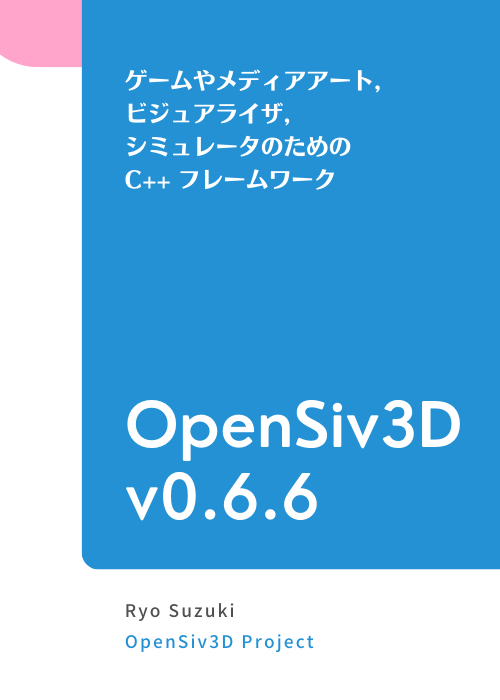
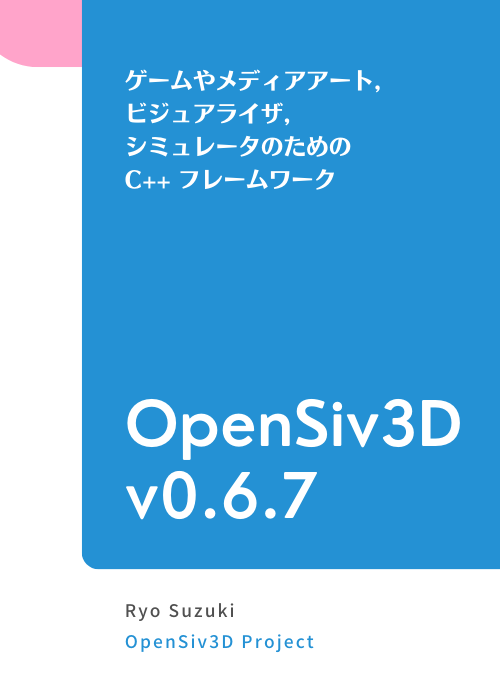
update

diff --git a/books/siv3d-documentation-en/course-quick-turorial.md b/books/siv3d-documentation-en/course-quick-turorial.md
@@ -773,7 +773,7 @@ void Main()
 ```
 
 ### Siv3D で使える絵文字の一覧
-Siv3D で使える絵文字は約 3,600 種類あります。絵文字を探すときは [emojipedia](https://emojipedia.org/) の Categories から調べるのが便利です。 OpenSiv3D v0.6.6 はオープンソースの絵文字フォント Noto Color Emoji (Unicode 14.0 版) を内蔵しているので、Siv3D アプリはどのプラットフォームでも同じ見た目の絵文字を表示できます。
+Siv3D で使える絵文字は約 3,600 種類あります。絵文字を探すときは [emojipedia](https://emojipedia.org/) の Categories から調べるのが便利です。 OpenSiv3D v0.6.7 はオープンソースの絵文字フォント Noto Color Emoji (Unicode 14.0 版) を内蔵しているので、Siv3D アプリはどのプラットフォームでも同じ見た目の絵文字を表示できます。
 
 
 ## 3.2 テクスチャを拡大縮小して描画する
@@ -955,7 +955,7 @@ void Main()
 ```
 
 ### 対応している画像フォーマット
-OpenSiv3D v0.6.6 では、9 種類の画像フォーマットの読み込みがサポートされています。
+OpenSiv3D v0.6.7 では、9 種類の画像フォーマットの読み込みがサポートされています。
 
 | フォーマット   | 拡張子             | 対応状況       |
 |----------|-----------------|:----------:|
@@ -1001,7 +1001,7 @@ void Main()
 ## 3.8 動画をテクスチャとして扱う
 シーンに動画を描きたいときは `VideoTexture` を作成し、`.draw()` または `.drawAt()` します。`VideoTexture` は `Texture` とほぼ同じインタフェースを持ち、動画ファイルを `Texture` のように扱えます。`VideoTexture` は毎フレーム `.advance()` を呼ぶことで再生位置を進めます。Siv3D はバックグラウンドのスレッドで動画の次のフレームの先読みを行っています。
 
-対応する動画フォーマットはプラットフォームによって異なりますが、MP4 ファイルは Windows, macOS, Linux でサポートされています。音声付き動画の音声を再生する方法は OpenSiv3D v0.6.6 では用意されていません。映像のみです。
+対応する動画フォーマットはプラットフォームによって異なりますが、MP4 ファイルは Windows, macOS, Linux でサポートされています。音声付き動画の音声を再生する方法は OpenSiv3D v0.6.7 では用意されていません。映像のみです。
 
 https://youtu.be/B4WPEdA4vMI
 ```cpp

diff --git a/books/siv3d-documentation/course-quick-turorial.md b/books/siv3d-documentation/course-quick-turorial.md
@@ -773,7 +773,7 @@ void Main()
 ```
 
 ### Siv3D で使える絵文字の一覧
-Siv3D で使える絵文字は約 3,600 種類あります。絵文字を探すときは [emojipedia](https://emojipedia.org/) の Categories から調べるのが便利です。 OpenSiv3D v0.6.6 はオープンソースの絵文字フォント Noto Color Emoji (Unicode 14.0 版) を内蔵しているので、Siv3D アプリはどのプラットフォームでも同じ見た目の絵文字を表示できます。
+Siv3D で使える絵文字は約 3,600 種類あります。絵文字を探すときは [emojipedia](https://emojipedia.org/) の Categories から調べるのが便利です。 OpenSiv3D v0.6.7 はオープンソースの絵文字フォント Noto Color Emoji (Unicode 14.0 版) を内蔵しているので、Siv3D アプリはどのプラットフォームでも同じ見た目の絵文字を表示できます。
 
 
 ## 3.2 テクスチャを拡大縮小して描画する
@@ -955,7 +955,7 @@ void Main()
 ```
 
 ### 対応している画像フォーマット
-OpenSiv3D v0.6.6 では、9 種類の画像フォーマットの読み込みがサポートされています。
+OpenSiv3D v0.6.7 では、9 種類の画像フォーマットの読み込みがサポートされています。
 
 | フォーマット   | 拡張子             | 対応状況       |
 |----------|-----------------|:----------:|
@@ -1001,7 +1001,7 @@ void Main()
 ## 3.8 動画をテクスチャとして扱う
 シーンに動画を描きたいときは `VideoTexture` を作成し、`.draw()` または `.drawAt()` します。`VideoTexture` は `Texture` とほぼ同じインタフェースを持ち、動画ファイルを `Texture` のように扱えます。`VideoTexture` は毎フレーム `.advance()` を呼ぶことで再生位置を進めます。Siv3D はバックグラウンドのスレッドで動画の次のフレームの先読みを行っています。
 
-対応する動画フォーマットはプラットフォームによって異なりますが、MP4 ファイルは Windows, macOS, Linux でサポートされています。音声付き動画の音声を再生する方法は OpenSiv3D v0.6.6 では用意されていません。映像のみです。
+対応する動画フォーマットはプラットフォームによって異なりますが、MP4 ファイルは Windows, macOS, Linux でサポートされています。音声付き動画の音声を再生する方法は OpenSiv3D v0.6.7 では用意されていません。映像のみです。
 
 https://youtu.be/B4WPEdA4vMI
 ```cpp

diff --git a/books/siv3d-documentation-en/tutorial-audio.md b/books/siv3d-documentation-en/tutorial-audio.md
@@ -32,7 +32,7 @@ void Main()
 ```
 
 ### 対応している音声フォーマット
-OpenSiv3D v0.6.6 では、次のような音声フォーマットの読み込みがサポートされています。一部の音声フォーマットは OS によって対応状況が異なります。
+OpenSiv3D v0.6.7 では、次のような音声フォーマットの読み込みがサポートされています。一部の音声フォーマットは OS によって対応状況が異なります。
 
 | フォーマット    | 拡張子                | Windows | macOS | Linux | Web |
 |-----------|--------------------|:-------:|:-----:|:-----:|:---:|
@@ -666,7 +666,7 @@ void Main()
 |`GlobalAudio::BusSetReverbFilter()`|  リバーブフィルタを設定します |
 |`GlobalAudio::BusSetPitchShiftFilter()`|  ピッチシフトフィルタを設定します |
 
-OpenSiv3D v0.6.6 Web 版では、ピッチシフトフィルタを利用できません。`GlobalAudio::SupportsPitchShift()` を使うと、現在の実行環境でピッチシフトフィルタを利用できるかを取得できます。
+OpenSiv3D v0.6.7 Web 版では、ピッチシフトフィルタを利用できません。`GlobalAudio::SupportsPitchShift()` を使うと、現在の実行環境でピッチシフトフィルタを利用できるかを取得できます。
 
 次のサンプルは、オーディオフィルタ機能のデモです。これまでの章では扱っていない、いくつかの高度な機能を含んでいます。「Open audio file」をクリックすると、パソコンに保存されているオーディオファイルをオープンできます。
 

diff --git a/books/siv3d-documentation/tutorial-audio.md b/books/siv3d-documentation/tutorial-audio.md
@@ -32,7 +32,7 @@ void Main()
 ```
 
 ### 対応している音声フォーマット
-OpenSiv3D v0.6.6 では、次のような音声フォーマットの読み込みがサポートされています。一部の音声フォーマットは OS によって対応状況が異なります。
+OpenSiv3D v0.6.7 では、次のような音声フォーマットの読み込みがサポートされています。一部の音声フォーマットは OS によって対応状況が異なります。
 
 | フォーマット    | 拡張子                | Windows | macOS | Linux | Web |
 |-----------|--------------------|:-------:|:-----:|:-----:|:---:|
@@ -666,7 +666,7 @@ void Main()
 |`GlobalAudio::BusSetReverbFilter()`|  リバーブフィルタを設定します |
 |`GlobalAudio::BusSetPitchShiftFilter()`|  ピッチシフトフィルタを設定します |
 
-OpenSiv3D v0.6.6 Web 版では、ピッチシフトフィルタを利用できません。`GlobalAudio::SupportsPitchShift()` を使うと、現在の実行環境でピッチシフトフィルタを利用できるかを取得できます。
+OpenSiv3D v0.6.7 Web 版では、ピッチシフトフィルタを利用できません。`GlobalAudio::SupportsPitchShift()` を使うと、現在の実行環境でピッチシフトフィルタを利用できるかを取得できます。
 
 次のサンプルは、オーディオフィルタ機能のデモです。これまでの章では扱っていない、いくつかの高度な機能を含んでいます。「Open audio file」をクリックすると、パソコンに保存されているオーディオファイルをオープンできます。
 

diff --git a/books/siv3d-documentation-en/tutorial-texture.md b/books/siv3d-documentation-en/tutorial-texture.md
@@ -71,7 +71,7 @@ void Main()
 ```
 
 ### Siv3D で使える絵文字の一覧
-Siv3D で使える絵文字は約 3,600 種類あります。絵文字を探すときは [emojipedia](https://emojipedia.org/) の Categories から調べるのが便利です。 OpenSiv3D v0.6.6 はオープンソースの絵文字フォント Noto Color Emoji (Unicode 14.0 版) を内蔵しているので、Siv3D アプリはどのプラットフォームでも同じ見た目の絵文字を表示できます。
+Siv3D で使える絵文字は約 3,600 種類あります。絵文字を探すときは [emojipedia](https://emojipedia.org/) の Categories から調べるのが便利です。 OpenSiv3D v0.6.7 はオープンソースの絵文字フォント Noto Color Emoji (Unicode 14.0 版) を内蔵しているので、Siv3D アプリはどのプラットフォームでも同じ見た目の絵文字を表示できます。
 
 ## 8.2 テクスチャを拡大縮小して描画する
 
@@ -249,7 +249,7 @@ void Main()
 ```
 
 ### 対応している画像フォーマット
-OpenSiv3D v0.6.6 では、9 種類の画像フォーマットの読み込みがサポートされています。
+OpenSiv3D v0.6.7 では、9 種類の画像フォーマットの読み込みがサポートされています。
 
 | フォーマット   | 拡張子             | 対応状況       |
 |----------|-----------------|:----------:|

diff --git a/books/siv3d-documentation/tutorial-texture.md b/books/siv3d-documentation/tutorial-texture.md
@@ -71,7 +71,7 @@ void Main()
 ```
 
 ### Siv3D で使える絵文字の一覧
-Siv3D で使える絵文字は約 3,600 種類あります。絵文字を探すときは [emojipedia](https://emojipedia.org/) の Categories から調べるのが便利です。 OpenSiv3D v0.6.6 はオープンソースの絵文字フォント Noto Color Emoji (Unicode 14.0 版) を内蔵しているので、Siv3D アプリはどのプラットフォームでも同じ見た目の絵文字を表示できます。
+Siv3D で使える絵文字は約 3,600 種類あります。絵文字を探すときは [emojipedia](https://emojipedia.org/) の Categories から調べるのが便利です。 OpenSiv3D v0.6.7 はオープンソースの絵文字フォント Noto Color Emoji (Unicode 14.0 版) を内蔵しているので、Siv3D アプリはどのプラットフォームでも同じ見た目の絵文字を表示できます。
 
 ## 8.2 テクスチャを拡大縮小して描画する
 
@@ -249,7 +249,7 @@ void Main()
 ```
 
 ### 対応している画像フォーマット
-OpenSiv3D v0.6.6 では、9 種類の画像フォーマットの読み込みがサポートされています。
+OpenSiv3D v0.6.7 では、9 種類の画像フォーマットの読み込みがサポートされています。
 
 | フォーマット   | 拡張子             | 対応状況       |
 |----------|-----------------|:----------:|

diff --git a/books/siv3d-documentation-en/tutorial-video.md b/books/siv3d-documentation-en/tutorial-video.md
@@ -12,7 +12,7 @@ free: true
 
 `VideoTexture` ではミップマップが作成されないため、動画を縮小して描く場合はあらかじめ小さい解像度の動画を用意しておくことが実行時性能上からも望ましいです。
 
-対応する動画フォーマットはプラットフォームによって異なりますが、MP4 ファイルは Windows, macOS, Linux でサポートされています。音声付き動画の音声を再生する方法は OpenSiv3D v0.6.6 では用意されていません。映像のみです。
+対応する動画フォーマットはプラットフォームによって異なりますが、MP4 ファイルは Windows, macOS, Linux でサポートされています。音声付き動画の音声を再生する方法は OpenSiv3D v0.6.7 では用意されていません。映像のみです。
 
 Windows では、のちのチュートリアルで説明する「リソースファイルの埋め込み」で埋め込んだ動画ファイルを `VideoTexture` では読み込めないという制約があります。ワークアラウンドとして、[一時ファイルに書き出す方法](https://gist.github.com/Reputeless/3d527302d459792f7a5e1094d30d0529) があります。
 

diff --git a/books/siv3d-documentation/tutorial-video.md b/books/siv3d-documentation/tutorial-video.md
@@ -12,7 +12,7 @@ free: true
 
 `VideoTexture` ではミップマップが作成されないため、動画を縮小して描く場合はあらかじめ小さい解像度の動画を用意しておくことが実行時性能上からも望ましいです。
 
-対応する動画フォーマットはプラットフォームによって異なりますが、MP4 ファイルは Windows, macOS, Linux でサポートされています。音声付き動画の音声を再生する方法は OpenSiv3D v0.6.6 では用意されていません。映像のみです。
+対応する動画フォーマットはプラットフォームによって異なりますが、MP4 ファイルは Windows, macOS, Linux でサポートされています。音声付き動画の音声を再生する方法は OpenSiv3D v0.6.7 では用意されていません。映像のみです。
 
 Windows では、のちのチュートリアルで説明する「リソースファイルの埋め込み」で埋め込んだ動画ファイルを `VideoTexture` では読み込めないという制約があります。ワークアラウンドとして、[一時ファイルに書き出す方法](https://gist.github.com/Reputeless/3d527302d459792f7a5e1094d30d0529) があります。
 

diff --git a/books/siv3d-documentation-en/tutorial-scene.md b/books/siv3d-documentation-en/tutorial-scene.md
@@ -22,7 +22,7 @@ Siv3D プログラムにおける画面表示を理解するには、「3 つの
 #### ② 仮想ウィンドウサイズ
 ユーザのデスクトップ上における、ウィンドウの**クライアント領域**（タイトルバーやフレームを除く、描画が行われる領域）の見かけのサイズです。`Window::GetState().virtualSize` で取得できます。この仮想ウィンドウサイズに OS 設定の拡大縮小倍率 (150%, 200% など) を乗算したものが、後述する実ウィンドウサイズになります。
 
-※ Linux 版では OS 設定の拡大縮小倍率に未対応で、仮想ウィンドウサイズと実ウィンドウサイズは同じになります（OpenSiv3D v0.6.6 現在）
+※ Linux 版では OS 設定の拡大縮小倍率に未対応で、仮想ウィンドウサイズと実ウィンドウサイズは同じになります（OpenSiv3D v0.6.7 現在）
 
 #### ③ 実ウィンドウサイズ（フレームバッファサイズ）
 モニタ上のピクセル数で計測した、ウィンドウのクライアント領域のサイズです。`Window::GetState().frameBufferSize` で取得できます。

diff --git a/books/siv3d-documentation/tutorial-scene.md b/books/siv3d-documentation/tutorial-scene.md
@@ -22,7 +22,7 @@ Siv3D プログラムにおける画面表示を理解するには、「3 つの
 #### ② 仮想ウィンドウサイズ
 ユーザのデスクトップ上における、ウィンドウの**クライアント領域**（タイトルバーやフレームを除く、描画が行われる領域）の見かけのサイズです。`Window::GetState().virtualSize` で取得できます。この仮想ウィンドウサイズに OS 設定の拡大縮小倍率 (150%, 200% など) を乗算したものが、後述する実ウィンドウサイズになります。
 
-※ Linux 版では OS 設定の拡大縮小倍率に未対応で、仮想ウィンドウサイズと実ウィンドウサイズは同じになります（OpenSiv3D v0.6.6 現在）
+※ Linux 版では OS 設定の拡大縮小倍率に未対応で、仮想ウィンドウサイズと実ウィンドウサイズは同じになります（OpenSiv3D v0.6.7 現在）
 
 #### ③ 実ウィンドウサイズ（フレームバッファサイズ）
 モニタ上のピクセル数で計測した、ウィンドウのクライアント領域のサイズです。`Window::GetState().frameBufferSize` で取得できます。
